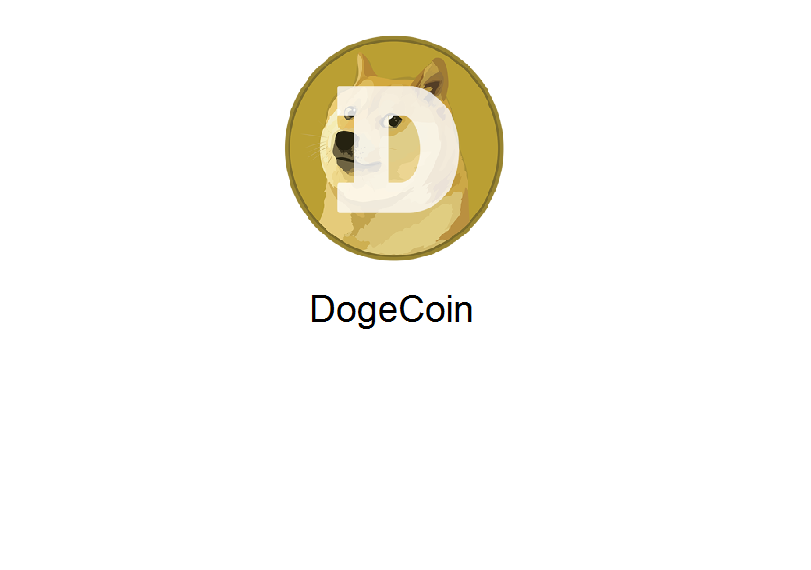
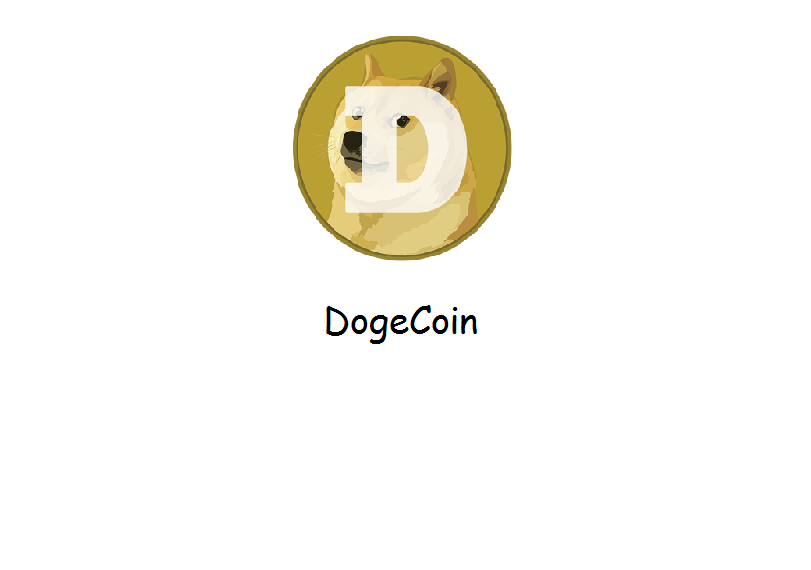
minor changes

Changed region(s): [[0.3391, 0.0596, 0.6473, 0.4474], [0.3699, 0.507, 0.5857, 0.5965], [0.4624, 0.4474, 0.524, 0.4772]]

diff --git a/MinerX/src/me/MinerX/Frame1.java b/MinerX/src/me/MinerX/Frame1.java
@@ -43,7 +43,7 @@ extends JFrame
 	private JTextField ExperModeField;
 	private JCheckBox ExpertModeCheckBox;
 	private JRadioButton expertamd, experenv;
-	public Font ftdefault = new Font("Times New Roman", Font.BOLD, 20);
+	public Font ftdefault = new Font("Times New Roman", Font.BOLD, 22);
 	public Font dogedefault = new Font("Comic Sans MS", Font.BOLD, 18);
 	public Font normal = new Font("Times New Roman", Font.BOLD, 20);
 	
@@ -367,7 +367,7 @@ extends JFrame
 				CoinCalc.setText("Such Profit?");
 				Walletaddress.setFont(dogedefault);
 				StartMining.setFont(dogedefault);
-				//ExperModeField.setFont(dogedefault);
+				ExperModeField.setFont(dogedefault);
 			}
 			else{
 				expertamd.setFont(normal);
@@ -379,7 +379,7 @@ extends JFrame
 				CoinCalc.setText("Feathercoin Calculator");
 				Walletaddress.setFont(normal);
 				StartMining.setFont(normal);
-				//ExperModeField.setFont(normal);
+				ExperModeField.setFont(normal);
 				
 			}
 			
